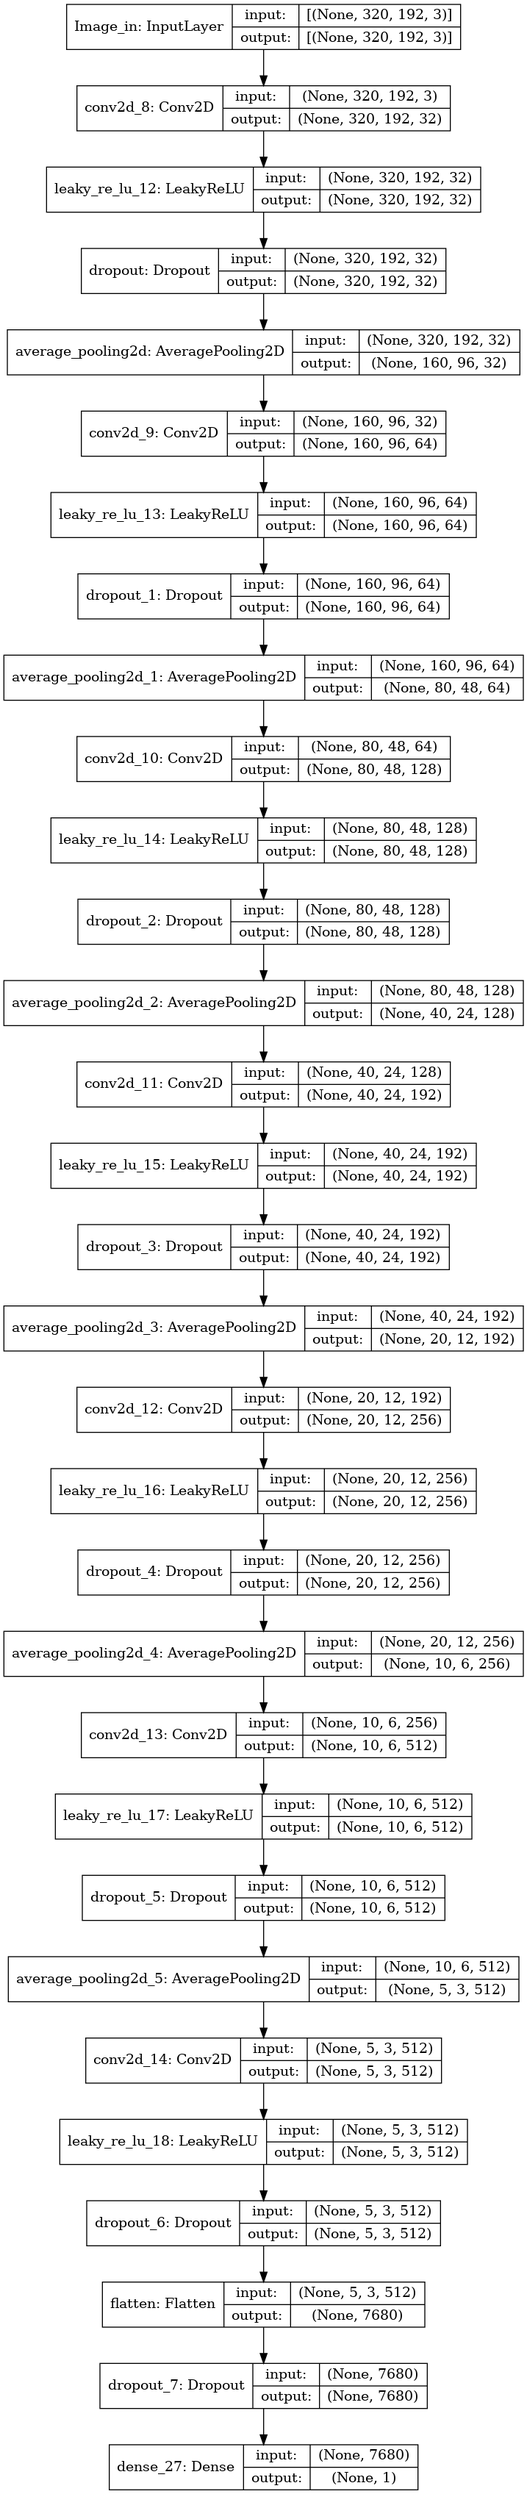
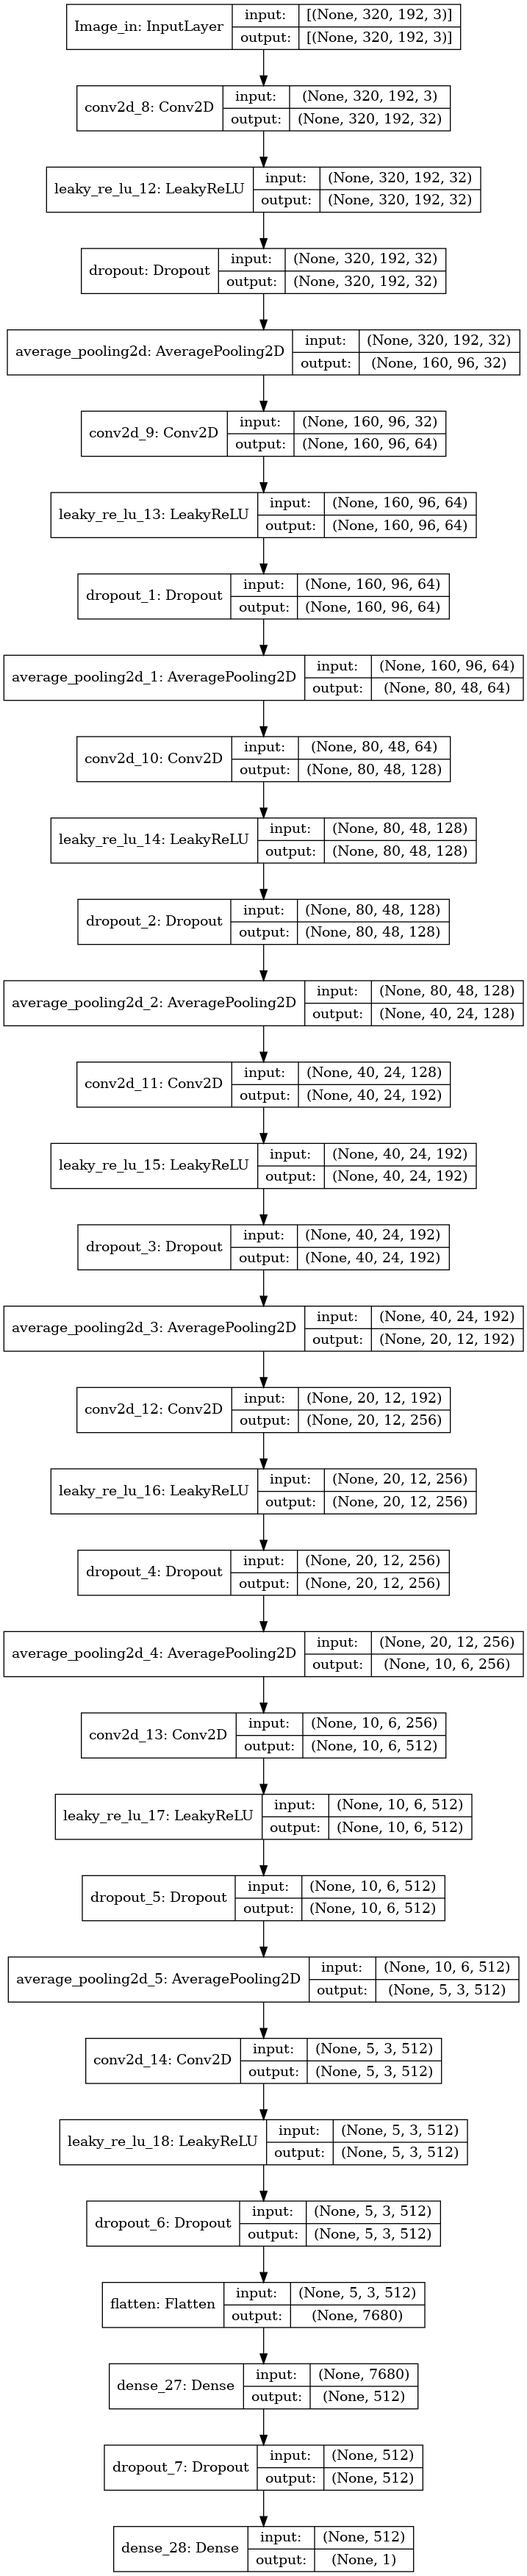
support for 640x384 & 256x256 res output, custom training step

Changed region(s): [[0.0, 0.0, 1.0, 0.9997], [0.0921, 0.7498, 0.1227, 0.781]]

diff --git a/train.py b/train.py
@@ -7,7 +7,7 @@ import matplotlib.pyplot as plt
 from model.critic import build_critic, build_critic_for_nonsquare
 from model.generator import build_generator, build_generator_for_nonsquare
 from model.stylegan import Stylegan
-from losses import critic_loss, generator_loss
+from losses import critic_loss, generator_loss, hinge_loss
 from dataset import TfdataPipeline
 
 import tensorflow as tf
@@ -15,6 +15,7 @@ from tensorflow import keras
 from tensorflow.keras.optimizers import Adam
 from tensorflow.keras.utils import plot_model
 from tensorflow.keras.models import load_model
+from tensorflow.keras import preprocessing
 
 
 def check_dir(*args):
@@ -23,14 +24,21 @@ def check_dir(*args):
             os.mkdir(arg)
 
 
+def save_sample_image(step: int, sample_image_dir: str, images: list):
+    for i in range(len(images)):
+        img = preprocessing.image.array_to_img(images[i])
+        img.save(f"{sample_image_dir}art_{step}_{i}")
+
+
 def plotResults(
     generator: keras.Model,
     latent_dim: int,
     IMG_H: int,
     IMG_W: int,
     step: int,
+    sample_image_dir: str,
     number_of_sample: int = 16,
-    result_dir: str = "results/"
+    result_dir: str = "results/",
 ):
     latent_in = tf.random.normal(
         shape=(number_of_sample, latent_dim))
@@ -39,6 +47,8 @@ def plotResults(
         shape=(number_of_sample, IMG_H, IMG_W, 1))
 
     generated_images = generator([latent_in, noise_in])
+    generated_images = (generated_images+1.0)/2.0
+    save_sample_image(step,sample_image_dir,generated_images)
     for i in range(16):
         plt.subplot(4, 4, i+1)
         plt.axis('off')
@@ -85,12 +95,13 @@ def train(
     result_dir: str = "results/",
     save_model_dir: str = "trained_model/",
     plots_dir: str = "loss_graph_dir/",
-    batch_size: int = 16,
+    sample_image_dir: str = "sample_art/",
+    batch_size: int = 9,
     image_h: int = 320,
     image_w: int = 192,
     image_c: int = 3,
     latent_dim: int = 256,
-    steps: int = 2,
+    epoch: int = 300,
     LR=0.0001,
     beta_1: float = 0.0,
     beta_2: float = 0.9,
@@ -105,7 +116,8 @@ def train(
     check_dir(
         result_dir,
         save_model_dir,
-        plots_dir
+        plots_dir,
+        sample_image_dir
     )
 
     # start pipiline for datset
@@ -123,7 +135,7 @@ def train(
         learning_rate=LR, beta_1=beta_1, beta_2=beta_2
     )
     critic_optimizer = Adam(
-        learning_rate=LR, beta_1=beta_1, beta_2=beta_2
+        learning_rate=LR*4, beta_1=beta_1, beta_2=beta_2
     )
 
     # Build mddels
@@ -174,7 +186,7 @@ def train(
     stylegan.compile(
         c_optimizer=critic_optimizer,
         g_optimizer=generator_optimizer,
-        c_loss_fn=critic_loss,
+        c_loss_fn=hinge_loss,
         g_loss_fn=generator_loss
     )
 
@@ -183,38 +195,42 @@ def train(
     generator_losses = []
     critic_losses = []
     gradient_panelties = []
-    for step in range(steps):
-        closs, gloss, gp = stylegan.train_step(next(iter(image_dataset)))
+    step = 0
 
-        if step % 50 == 0:
-            critic_losses.append(closs)
-            generator_losses.append(gloss)
-            gradient_panelties.append(gp)
+    for e in range(epoch):
+        for data in image_dataset:
+            print(f"Epoch: {e}")
+            closs, gloss, gp = stylegan.train_step(data)
+            step = step + 1
+            if step % 50 == 0:
+                critic_losses.append(closs)
+                generator_losses.append(gloss)
+                gradient_panelties.append(gp)
 
-            print(f"\n\nStep No.: {step}")
-            print(f"C Loss: {closs}")
-            print(f"G loss: {gloss}")
-            print(f"GP: {gp}")
-            print(f"Number images shown: {batch_size*step}")
-            print("="*30)
-            s = round((time.time() - start_time), 4)
-            time_per_step = (s/50)*1000
-            print(f"{time_per_step}ms/step")
-            start_time = time.time()
+                print(f"\n\nStep No.: {step}")
+                print(f"C Loss: {closs}")
+                print(f"G loss: {gloss}")
+                print(f"GP: {gp}")
+                print(f"Number images shown: {batch_size*step}")
+                print("="*30)
+                s = round((time.time() - start_time), 4)
+                time_per_step = (s/50)*1000
+                print(f"{time_per_step}ms/step")
+                start_time = time.time()
 
-            steps_per_second = 100 / s
-            steps_per_min = steps_per_second * 60
-            print(f"steps/sec: {steps_per_second}")
-            print(f"steps/min: {steps_per_min}")
+                steps_per_second = 50 / s
+                steps_per_min = steps_per_second * 60
+                print(f"steps/sec: {steps_per_second}")
+                print(f"steps/min: {steps_per_min}")
 
-        if step % 500 == 0:
-            print("[Info] Plotting loss, Plotting results")
-            plotResults(g_model, latent_dim, image_h, image_w, step)
-            plotLoss(critic_losses, generator_losses,
-                     gradient_panelties, step, plots_dir)
-        if step % 2000 == 0 and step > 0:
-            print("[info] Saving model")
-            saveModel(g_model, c_model, step, save_model_dir)
+            if step % 500 == 0:
+                print("[Info] Plotting loss, Plotting results")
+                plotResults(g_model, latent_dim, image_h, image_w, step,sample_image_dir)
+                plotLoss(critic_losses, generator_losses,
+                         gradient_panelties, step, plots_dir)
+            if step % 10000 == 0 and step > 0:
+                print("[info] Saving model")
+                saveModel(g_model, c_model, step, save_model_dir)
 
 
 if __name__ == "__main__":

diff --git a/model/generator.py b/model/generator.py
@@ -49,7 +49,6 @@ def g_block(
         kernel_size: tuple = (3, 3),
         upsample_size: tuple = (2, 2),
         padding="same",
-        use_bias: bool = True,
         upsample: bool = True
 ):
 
@@ -65,11 +64,12 @@ def g_block(
 
     # Crop noise and scale using Dense layer
     noise = Lambda(crop_and_fit)([noise, x])
-    noise = Dense(filters)(noise)
+    noise = Dense(filters,kernel_initializer='zeros')(noise)
 
     out = Conv2D(
         filters, kernel_size,
-        padding=padding, use_bias=use_bias
+        padding=padding,
+        kernel_initializer='he_normal'
     )(x)
     # add noise
     out = add([out, noise])
@@ -109,7 +109,7 @@ def build_generator(latent_dim, image_size=(128, 128)) -> keras.Model:
     x = Dense(1)(latent_in)
     # no matter whats the latent input be, it will always be constant
     x = Lambda(lambda x: x * 0 + 1, name="constant")(x)
-    x = Dense(4*4*latent_dim)(x)
+    x = Dense(4*4*latent_dim, kernel_initializer='he_normal')(x)
     x = LeakyReLU(alpha=0.2)(x)
     x = Reshape((4, 4, latent_dim))(x)
 
@@ -130,10 +130,13 @@ def build_generator(latent_dim, image_size=(128, 128)) -> keras.Model:
 
     x = g_block(x, filters=channel_factor,
                 latent_vector=latent, noise=noise_in)
+    
+    x = g_block(x, filters=channel_factor,
+                latent_vector=latent, noise=noise_in)
 
     x = Conv2D(filters=3, kernel_size=(3, 3),
-               strides=(1, 1), padding='same', use_bias=True)(x)
-    fake_out = Activation('sigmoid')(x)
+               strides=(1, 1), padding='same', kernel_initializer='he_normal')(x)
+    fake_out = Activation('tanh')(x)
 
     return Model(inputs=[latent_in, noise_in], outputs=fake_out, name="Generator_for_square")
 
@@ -166,7 +169,7 @@ def build_generator_for_nonsquare(latent_dim: int, image_size: tuple = (320, 192
     x = Dense(1)(latent_in)
     # no matter whats the latent input be, it will always be constant
     x = Lambda(lambda x: x * 0 + 1, name="constant")(x)
-    x = Dense(h_factor*w_factor*latent_dim)(x)
+    x = Dense(h_factor*w_factor*latent_dim, kernel_initializer='he_normal')(x)
     x = LeakyReLU(alpha=0.2)(x)
     x = Reshape((h_factor, w_factor, latent_dim))(x)
 
@@ -190,9 +193,12 @@ def build_generator_for_nonsquare(latent_dim: int, image_size: tuple = (320, 192
 
     x = g_block(x, filters=channel_factor,
                 latent_vector=latent, noise=noise_in)
+    
+    x = g_block(x, filters=channel_factor,
+                latent_vector=latent, noise=noise_in)
 
     x = Conv2D(filters=3, kernel_size=(3, 3),
-               strides=(1, 1), padding='same', use_bias=True)(x)
-    fake_out = Activation('sigmoid')(x)
+               strides=(1, 1), padding='same', kernel_initializer='he_normal')(x)
+    fake_out = Activation('tanh')(x)
 
     return Model(inputs=[latent_in, noise_in], outputs=fake_out, name="Generator_for_non_square")

diff --git a/dataset.py b/dataset.py
@@ -8,36 +8,33 @@ import matplotlib.pyplot as plt
 from tensorflow.python.ops.image_ops_impl import ResizeMethod
 
 
-
 class TfdataPipeline:
     def __init__(
         self, IMG_H: int = 128,
         IMG_W: int = 128,
         IMG_C: int = 3,
-        batch_size:int = 16
+        batch_size: int = 16
     ) -> None:
         self.IMG_H = IMG_H
         self.IMG_W = IMG_W
         self.IMG_C = IMG_C
         self.batch_size = batch_size
 
-
-    def _load_image(self,image_path: str):
+    def _load_image(self, image_path: str):
         image = tf.io.read_file(image_path)
         image = tf.io.decode_jpeg(image)
-        image = tf.image.resize(image, (self.IMG_H, self.IMG_W), method=ResizeMethod.BICUBIC)
+        image = tf.image.resize(
+            image, (self.IMG_H, self.IMG_W), method=ResizeMethod.BICUBIC)
         image = tf.cast(image, tf.float32)
-        # scale the pixel value between 0 to 1
-        image = (image)/255
+        # scale the pixel value between -1 to 1
+        image = (image-127.5)/127.5
         return image
 
-
-    def tf_dataset(self,images_path: str):
+    def tf_dataset(self, images_path: str):
         dataset = tf.data.Dataset.from_tensor_slices(images_path)
         dataset = dataset.shuffle(buffer_size=self.batch_size*2)
         dataset = dataset.map(
             self._load_image, num_parallel_calls=tf.data.experimental.AUTOTUNE)
         dataset = dataset.batch(batch_size=self.batch_size)
-        dataset = dataset.prefetch(buffer_size=tf.data.experimental.AUTOTUNE)
 
         return dataset

diff --git a/model/critic.py b/model/critic.py
@@ -11,13 +11,12 @@ def d_block(
     filters: int,
     kernel_size: tuple = (3, 3),
     padding: str = 'same',
-    use_bias: bool = True,
     use_dropout: bool = True,
     drop_value: float = 0.2,
     use_pool: bool = True
 ):
     x = Conv2D(filters, kernel_size,
-               padding=padding, use_bias=use_bias)(x)
+               padding=padding,kernel_initializer='he_normal')(x)
     x = LeakyReLU(alpha=0.2)(x)
     if use_dropout:
         x = Dropout(drop_value)(x)
@@ -49,11 +48,16 @@ def build_critic(input_shape: tuple = (128, 128, 3)):
 
     x = d_block(x, 8 * channel_factor)
 
+    x = d_block(x, 8 * channel_factor)
+
     x = d_block(x, 8 * channel_factor, use_pool=False)
     
     x = Flatten()(x)
+
+    x = Dense(channel_factor, kernel_initializer='he_normal')(x)
+
     x = Dropout(0.2)(x)
-    out = Dense(1)(x)
+    out = Dense(1, kernel_initializer='he_normal')(x)
 
     return Model(image_input, out, name="Critic1")
 
@@ -81,11 +85,17 @@ def build_critic_for_nonsquare(input_shape: tuple = (320, 192, 3)):
 
     x = d_block(x, 16*channel_factor)
 
+    x = d_block(x, 16*channel_factor)
+
     x = d_block(x, 16*channel_factor, use_pool=False)
 
     x = Flatten()(x)
+
+    x = Dense(channel_factor, kernel_initializer='he_normal')(x)
+
     x = Dropout(0.2)(x)
-    out = Dense(1)(x)
+
+    out = Dense(1,kernel_initializer='he_normal')(x)
 
     
 

diff --git a/losses.py b/losses.py
@@ -15,4 +15,8 @@ def critic_loss(real_image, fake_image):
 
 
 def generator_loss(fake_image):
-    return -tf.reduce_mean(fake_image)
+    return tf.reduce_mean(fake_image)
+
+
+def hinge_loss(real_image, fake_image):
+    return tf.reduce_mean(tf.nn.relu(1 + real_image) + tf.nn.relu(1-fake_image))
